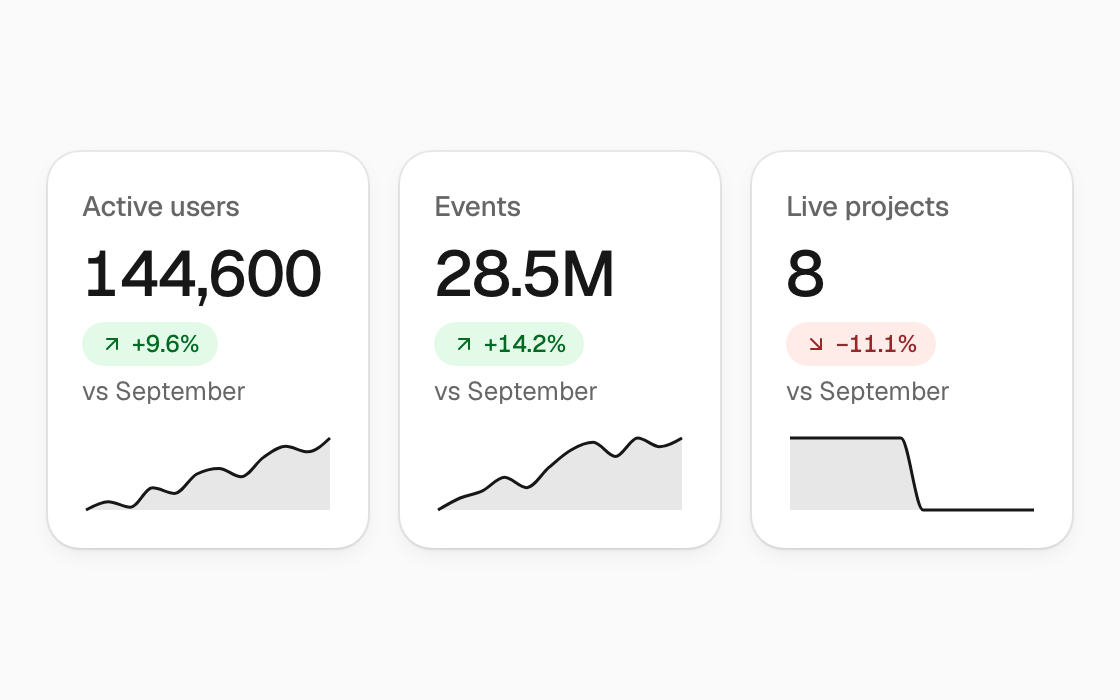
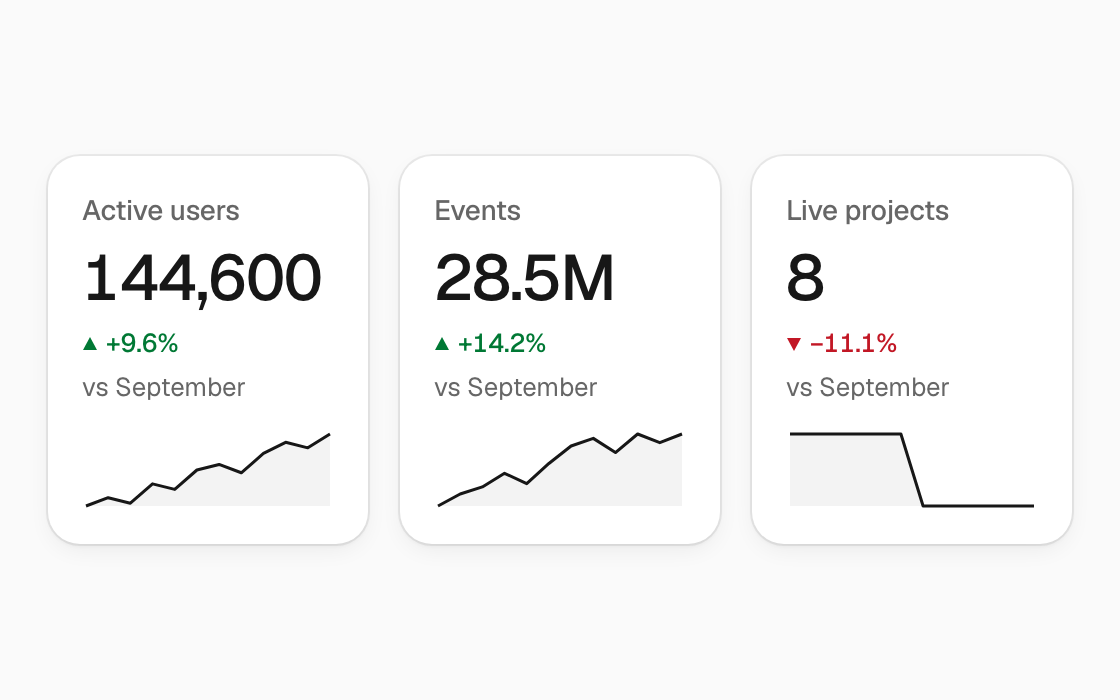
feat(stat-card): show the change as a green or red triangle

diff --git a/registry/kosmos/ui/stat-card.tsx b/registry/kosmos/ui/stat-card.tsx
@@ -2,11 +2,10 @@
 
 import { mergeProps } from '@base-ui/react/merge-props';
 import { useRender } from '@base-ui/react/use-render';
-import { ArrowDownRight, ArrowRight, ArrowUpRight } from 'lucide-react';
+import { ArrowRight } from 'lucide-react';
 import * as React from 'react';
 import { cn } from '@/registry/kosmos/lib/cn';
 import { statDelta, type StatDeltaOptions } from '@/registry/kosmos/lib/stat-delta';
-import { Badge } from '@/registry/kosmos/ui/badge';
 import { Sparkline } from '@/registry/kosmos/ui/chart';
 import { Skeleton } from '@/registry/kosmos/ui/skeleton';
 
@@ -62,8 +61,6 @@ function StatCardValue({ className, ...props }: React.ComponentProps<'span'>) {
   );
 }
 
-const arrows = { up: ArrowUpRight, down: ArrowDownRight, flat: ArrowRight };
-const toneVariant = { good: 'green', bad: 'red', neutral: 'secondary' } as const;
 
 type StatCardDeltaProps = Omit<React.ComponentProps<'span'>, 'children'> &
   StatDeltaOptions & {
@@ -74,27 +71,39 @@ type StatCardDeltaProps = Omit<React.ComponentProps<'span'>, 'children'> &
   };
 
 /**
- * The change, in a tag that reads without color: an arrow, a sign and the percentage ("+12.4%"). Good news
- * tints it green and bad news red; set `goodWhen="down"` for a metric where falling is good.
+ * The change, read without color: a triangle, a sign and the percentage ("▲ +12.4%"). Good news is green and bad news
+ * red; set `goodWhen="down"` for a metric where falling is good. A flat change is a muted arrow.
  */
 function StatCardDelta({ value, goodWhen, unit, fractionDigits, format, className, children, ...props }: StatCardDeltaProps) {
   const { loading } = React.useContext(StatCardContext);
-  if (loading) return <Skeleton data-slot="stat-card-delta" className={cn('h-5.5 w-28 max-w-full rounded-full', className)} />;
+  if (loading) return <Skeleton data-slot="stat-card-delta" className={cn('h-5 w-28 max-w-full', className)} />;
   const delta = statDelta(value, { goodWhen, unit, fractionDigits, format });
   if (!delta && children === undefined) return null;
-  const Arrow = delta ? arrows[delta.direction] : null;
 
   return (
     <span
       data-slot="stat-card-delta"
-      className={cn('flex min-w-0 flex-wrap items-center gap-x-2 gap-y-1 text-small tabular-nums', className)}
+      className={cn('flex min-w-0 flex-wrap items-center gap-x-1.5 gap-y-1 text-small tabular-nums', className)}
       {...props}
     >
-      {delta && Arrow ? (
-        <Badge variant={toneVariant[delta.tone]} data-direction={delta.direction}>
-          <Arrow aria-hidden />
+      {delta ? (
+        <span
+          data-direction={delta.direction}
+          className={cn(
+            'flex items-center gap-1 font-medium text-muted-foreground',
+            delta.tone === 'good' && 'text-tint-green-foreground',
+            delta.tone === 'bad' && 'text-tint-red-foreground',
+          )}
+        >
+          {delta.direction === 'flat' ? (
+            <ArrowRight aria-hidden className="size-3 shrink-0" />
+          ) : (
+            <svg aria-hidden viewBox="0 0 8 8" className={cn('size-2 shrink-0 fill-current', delta.direction === 'down' && 'rotate-180')}>
+              <path d="M4 0.5 7.5 7H0.5z" />
+            </svg>
+          )}
           {delta.text}
-        </Badge>
+        </span>
       ) : null}
       {children === undefined ? null : <span className="min-w-0 wrap-break-word text-muted-foreground">{children}</span>}
     </span>

diff --git a/.claude/skills/kosmos-style/SKILL.md b/.claude/skills/kosmos-style/SKILL.md
@@ -82,7 +82,7 @@ The tooltip exception: shadcn's and Base UI's tooltips use a control radius too.
 - The ring color means focus, so hover never takes it: a hover line or halo is neutral (the sidebar resize handle shows `sidebar-foreground/20`, a slider thumb a `foreground/10` halo).
 - Two tones that can stand side by side differ in lightness, not only in hue, so they still read in grayscale and for color-blind readers: the chart ramp steps in lightness, and in Warm the orange `accent-text` that fills a primary Meter sits a step deeper than `primary`, about 1.7:1 from `warning`. The status colors differ by hue and always come with a label, a value or an icon, so their meaning never rides on color alone.
 - `success`, `warning` and `destructive` color dots, icons, meter segments and fills. The text beside them stays `text-foreground` or `text-muted-foreground`, with the meaning also carried by a label or icon. A status Badge is the neutral pill plus a colored dot, never a tinted fill.
-- Six tints (`gray`, `blue`, `green`, `amber`, `red`, `violet`) color every badge, state dot and alert, the same under every preset; no tint is a preset's accent. A state is a dot and its word with no pill: `StatusDot`, a 6px `bg-tint-*-dot` beside text in the color around it, and the status Badge stays the neutral pill with a colored dot. A category, a plan or a code is a hue Badge: `bg-tint-*` fill and `text-tint-*-foreground`, no edge. A category keeps one hue everywhere; plans are Free gray, Pro blue, Scale violet, Trial amber; 2xx green, 3xx and others gray, 4xx amber, 5xx red; GET green, POST blue, PATCH amber, DELETE red; a change in a stat tile is a `green` or `red` Badge, and in a dense metric cell (Stats overview) a green ▲ or red ▼ with the signed number in `text-tint-green-foreground` or `text-tint-red-foreground`, then the muted context "vs. last period", where the arrow's direction and the sign carry the meaning. A badge looks the same everywhere, the current nav item included. An Alert takes the tint of its tone (info blue, success green, warning amber, destructive red) filled by default: `bg-tint-*`, `-foreground` text and icon, no visible edge (`border-transparent` for forced colors). `appearance="subtle"` is the outline: a transparent fill and a 1px `-border` edge. A banner and the docs callout look like a filled alert (the banner has no divider; only the neutral one keeps a `border-b border-border` against the page). Links inside an Alert, Banner or Callout take `text-foreground`, `font-medium` and a soft underline (`decoration-foreground/40`, full on hover), since tint text against foreground is under 3:1 and color must not be the only cue. The neutral tone is a card. A field error takes `text-tint-red-foreground` with a 14px `CircleAlert` before the message, aligned to the first line. Tint text passes 4.5:1 on its fill and on `background` and `card` in every preset, foreground passes it on every fill, dots 3:1 on the fill and the page (`pnpm test`); an outline alert on another surface, such as `muted`, is not checked. A tint never reads a chart series.
+- Six tints (`gray`, `blue`, `green`, `amber`, `red`, `violet`) color every badge, state dot and alert, the same under every preset; no tint is a preset's accent. A state is a dot and its word with no pill: `StatusDot`, a 6px `bg-tint-*-dot` beside text in the color around it, and the status Badge stays the neutral pill with a colored dot. A category, a plan or a code is a hue Badge: `bg-tint-*` fill and `text-tint-*-foreground`, no edge. A category keeps one hue everywhere; plans are Free gray, Pro blue, Scale violet, Trial amber; 2xx green, 3xx and others gray, 4xx amber, 5xx red; GET green, POST blue, PATCH amber, DELETE red; a change in a stat tile or a metric cell is a green ▲ or red ▼ with the signed number in `text-tint-green-foreground` or `text-tint-red-foreground`, then the muted context "vs. last period", where the arrow's direction and the sign carry the meaning. A badge looks the same everywhere, the current nav item included. An Alert takes the tint of its tone (info blue, success green, warning amber, destructive red) filled by default: `bg-tint-*`, `-foreground` text and icon, no visible edge (`border-transparent` for forced colors). `appearance="subtle"` is the outline: a transparent fill and a 1px `-border` edge. A banner and the docs callout look like a filled alert (the banner has no divider; only the neutral one keeps a `border-b border-border` against the page). Links inside an Alert, Banner or Callout take `text-foreground`, `font-medium` and a soft underline (`decoration-foreground/40`, full on hover), since tint text against foreground is under 3:1 and color must not be the only cue. The neutral tone is a card. A field error takes `text-tint-red-foreground` with a 14px `CircleAlert` before the message, aligned to the first line. Tint text passes 4.5:1 on its fill and on `background` and `card` in every preset, foreground passes it on every fill, dots 3:1 on the fill and the page (`pnpm test`); an outline alert on another surface, such as `muted`, is not checked. A tint never reads a chart series.
 - Grey carries the hierarchy. Idle chrome steps back to `text-muted-foreground`: sidebar items, tabs, table headers, counts, field labels above a control, and icons in secondary and ghost buttons. Values and the selected tab of a Tabs component stay `text-foreground`; the current page in navigation takes `text-accent-text`.
 - Chart series take `--chart-1` to `--chart-5` in order (on Recharts, ADR 0005): by default a mono ramp, ink then four steps of grey, each 3:1 on `card` and `background`. Segments that touch are split in the surface color, so adjacent greys stay apart: stacked bars take a 1px `stroke="var(--card)"`, a segmented meter `gap-px` on its track. Values, labels and legends stay in text colors; the mark beside them carries the series.
 - A line over time is 1.5px, `type="linear"`, with a faint flat fill of its own color (5% opacity, no gradient). A previous period is the same series hue (`--chart-1`) at 45% opacity, 1.5px, solid, with no fill, never the next grey of the ramp; the ramp is for distinct series. The chrome is quiet: no y-axis, only the first and last x labels, a thin vertical cursor line in the tooltip, and a faint dotted vertical grid only on a large chart. Sample data is calm: small steps around a trend.
